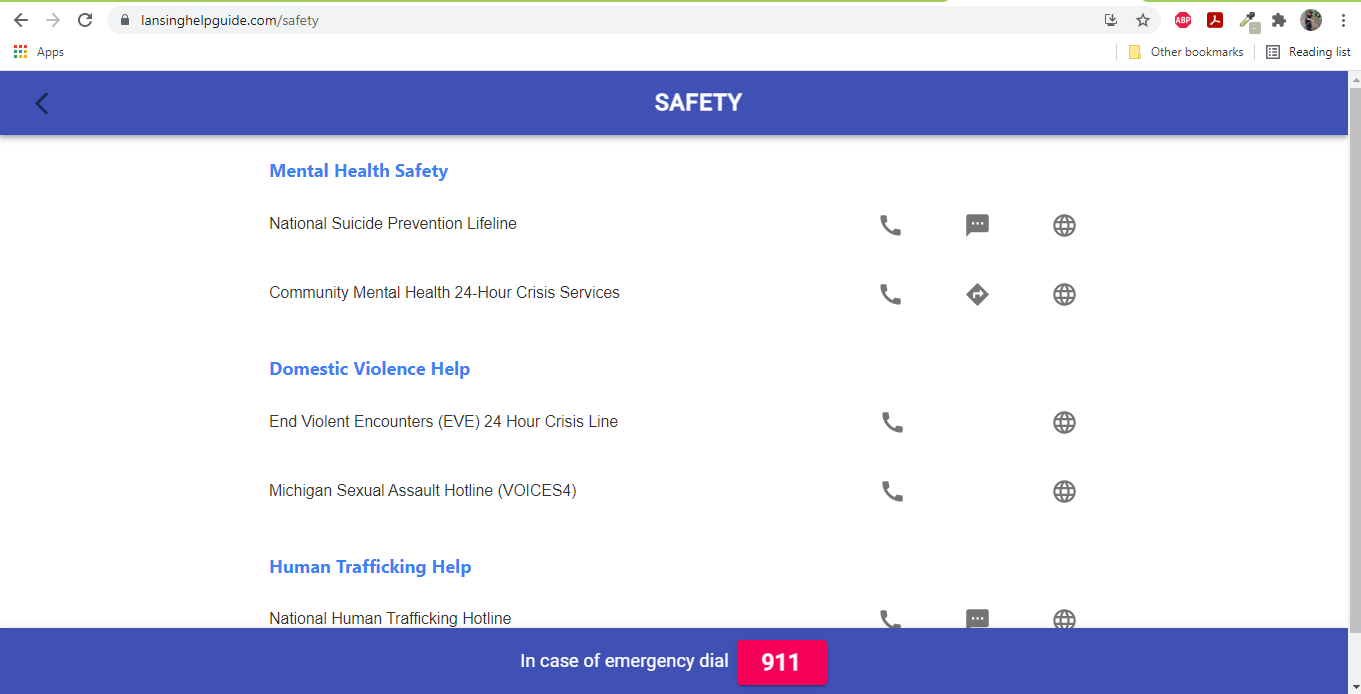
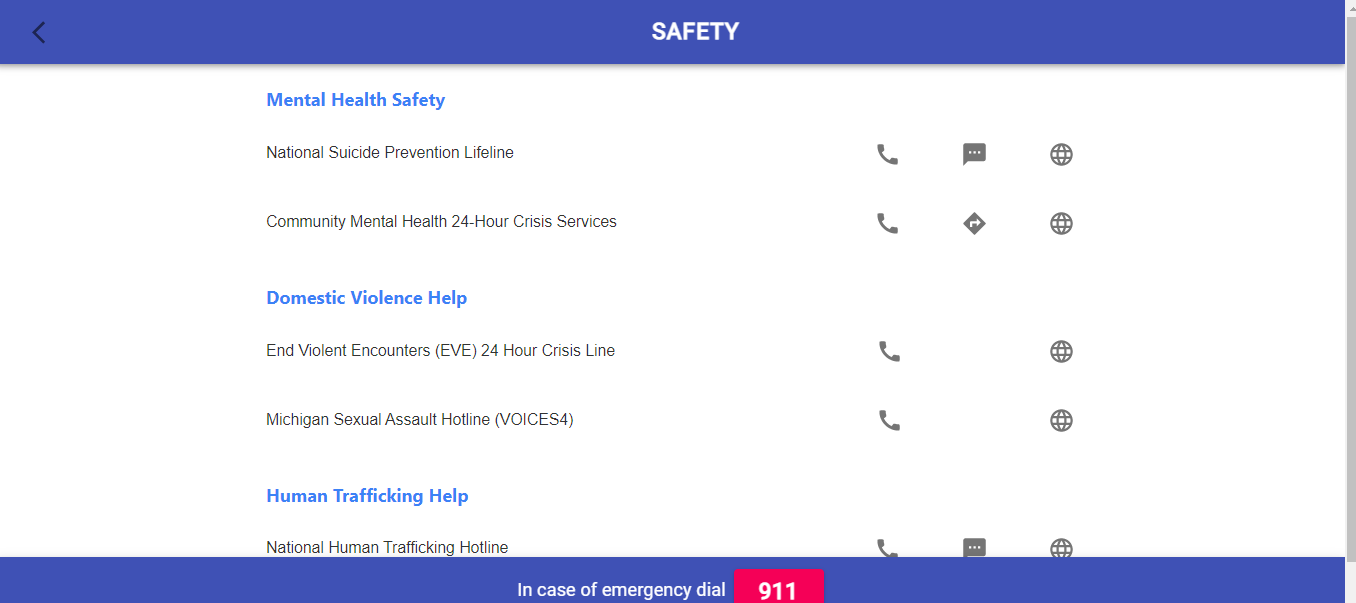
image reformatted and layout CSS code added for lansinghelp.js page

diff --git a/src/pages/lansinghelp.js b/src/pages/lansinghelp.js
@@ -2,7 +2,7 @@ import React from 'react'
 import { Link } from 'gatsby'
 import Layout from '../components/layout'
 import Head from '../components/head'
-import { heading, list, stack, links, listCategories, image, contentWrapper, textContent } from '../styles/lansinghelp.module.css'
+import { heading, list, stack, links, listCategories, image, contentWrapper, textContent, textDescription } from '../styles/lansinghelp.module.css'
 import { StaticImage } from 'gatsby-plugin-image'
 
 const LansingHelp = () => {
@@ -10,10 +10,10 @@ const LansingHelp = () => {
         <Layout>
             <Head title="Lansing Help Guide"/>
             <h1 className={heading}>Lansing Help Guide</h1>
-            <p>"Lansing Help Guide provides a quick starting point 
-                for Lansing newcomers in accessing help in times of need."
+            <p className={textDescription}><i>"Lansing Help Guide provides a quick starting point 
+                for Lansing newcomers in accessing help in times of need."</i>
             </p>
-            <p>Lansing Help Guide is a React progressive web application, which was built using
+            <p className={textDescription}>Lansing Help Guide is a React progressive web application, which was built using
                  the GraphQL-powered Gatsby.js static site generator, Tailwind CSS, and Material UI 
                  styled components.
             </p>
@@ -52,8 +52,8 @@ const LansingHelp = () => {
                     maxHeight={800} />
                 </div>
                 <div className={textContent}>
-                    <h3>Project Purpose and Background</h3>
-                    <p>Lansing Help Guide’s inspiration came from having been working with young adult, refugee youth 
+                    <h3>Project Background and Purpose</h3>
+                    <p className={textDescription}>Lansing Help Guide’s inspiration came from having been working with young adult, refugee youth 
                         transitioning into independent living in Lansing, Michigan. After having spent many days with refugee 
                         youth moving to Lansing, it became clear that many were unfamiliar with the city’s community resources, 
                         and I decided to create an easy-to-use app for them (and other Lansing newcomers) to have handy in case of 
@@ -61,12 +61,12 @@ const LansingHelp = () => {
                         businesses in the city, but rather a quick starter guide with well-known and trusted resources for people who
                         are just getting to know Lansing to access.
                     </p>
-                    <p>Technically speaking, this project allows users to quickly access listed content (community resources) 
+                    <p className={textDescription}>Technically speaking, this project allows users to quickly access listed content (community resources) 
                         items by phone, Google Maps, live chat (whenever available), and their respective websites. This project 
                         was built mobile-first due to the fact that the majority of users are more likely to be using mobile 
                         devices vs. laptop and desktop computers. The app is fully responsive and SEO-ready.
                     </p>
-                    <p>
+                    <p className={textDescription}>
                         The first version of this progressive web app is far from being the last - upcoming versions will include 
                         more assistance categories, a language selector for the content to translate to other common languages 
                         spoken among the various cultures in the greater Lansing area, and finally a rating system for users to be 
@@ -86,22 +86,22 @@ const LansingHelp = () => {
             </div>
 
             <h3>Web Stack</h3>
-            <p>
+            <p className={textDescription}>
                 I chose to build my project with Gatsby.js since this static site generator is React-based, is powered 
                 with GraphQL, and enables developers to easily convert static sites into progressive web applications. 
                 With the installation of a few helpful plugins, I was able to add in Material UI components, easily style 
                 the application with Tailwind CSS, and convert the project into a downloadable progressive web app. Finally, 
                 I chose Netlify for web hosting and deployment.
             </p>
-            <h3>Problems and How They Were Solved</h3>
-            <p>
+            <h3>Problems Encountered</h3>
+            <p className={textDescription}>
                 Of several problems I worked through, one particular technical challenge I faced was learning to style the 
                 Material UI button components. I had initially assumed I could easily style them using Tailwind CSS, but I 
                 rather quickly realized that this was not the case. This forced me to consult the Material UI button API 
                 documentation and the Net Ninja’s Material UI YouTube video series, and there I learned to customize and 
                 override default styles with CSS rules.
             </p>
-            <p>
+            <p className={textDescription}>
                 Another problem I ran into was design-related. I knew during the ideation and design process that I wanted 
                 to include an emergency 911 button for users to easily access if needed. I initially thought to put the 
                 button at the top of the page under the header for visibility. I had a few colleagues test out the app for 
@@ -112,7 +112,7 @@ const LansingHelp = () => {
             </p>
 
             <h3>Lessons Learned</h3>
-            <p>
+            <p className={textDescription}>
               This, being my first progressive web application dev project, was truly a tremendous and exciting learning 
               experience. I learned how to:
             </p>
@@ -127,7 +127,7 @@ const LansingHelp = () => {
                 <li>convert it to a progressive web app</li>
                 <li>deploy the project to Netlify</li>
             </ul>
-            <p>
+            <p className={textDescription}>
                 Overall this project taught me to think more like programmatically while maintaining a goal of providing a 
                 positive user experience. I also gained a lot of confidence in solving problems utilizing internet searches 
                 and consulting with other seasoned developers.

diff --git a/src/styles/lansinghelp.module.css b/src/styles/lansinghelp.module.css
@@ -13,7 +13,8 @@ h3 {
   justify-content: space-evenly;
 }
 
-.list {
+.stack > .list,
+.links > .list {
   margin: 0;
   padding: 0;
 }
@@ -29,13 +30,16 @@ h3 {
     margin-bottom: 5rem;
   }
 
-  .content-wrapper {
-    display: flex;
-    justify-content: space-between;
-  }
-
   h3 {
     margin: 0;
+  }
+
+  .text-description {
+    max-width: 800px;
+  }
+
+  .stack {
+    margin-bottom: 4rem;
   }
 
   .image {
